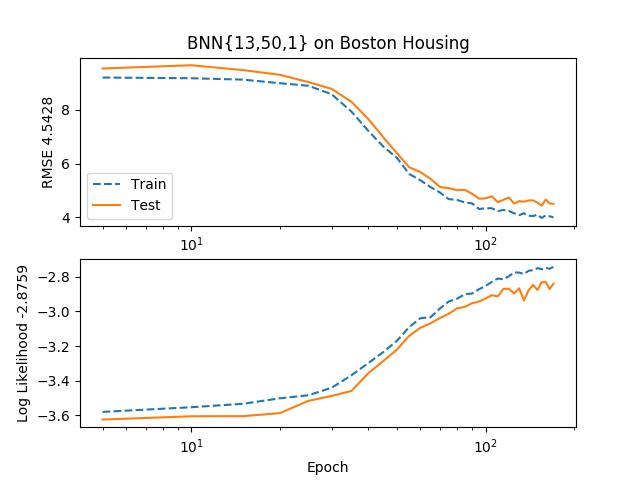
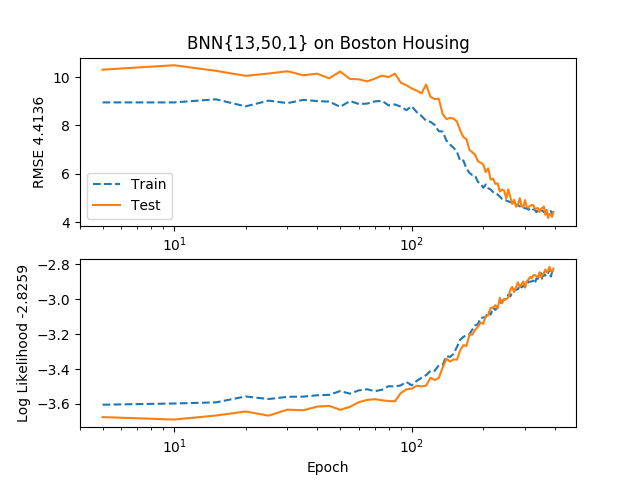
update VAF

diff --git a/models/VAFNN.py b/models/VAFNN.py
@@ -50,19 +50,18 @@ def p_Y_Xw(observed, X, n_basis, net_sizes, n_samples, is_training):
                     initializer=tf.constant_initializer(0.))
                 b = tf.tile(b, [n_samples, tf.shape(X)[0], 1, 1])
                 f = (tf.matmul(f, A)+b)/tf.sqrt(net_sizes[i]*1.)
-                V = tf.get_variable('V'+str(i),
+                V = tf.get_variable('w_logstd_'+str(i),
                     shape=[1, 1, net_sizes[i+1], n_basis],
                     initializer=tf.constant_initializer(0.))
                 V = tf.tile(V, [n_samples, tf.shape(X)[0], 1, 1])
-                expVf2 = tf.exp(-2*np.pi**2*tf.matmul(f**2, V**2))
+                expVf2 = tf.exp(-2*np.pi**2*tf.matmul(f**2, V))
                 w_mu = tf.zeros([1, net_sizes[i+1], n_basis])
                 w = 2*np.pi*zs.Normal('w'+str(i), w_mu, std=1.,
                             n_samples=n_samples, group_ndims=2)
                 w = tf.tile(w, [1, tf.shape(X)[0], 1, 1])
                 f = tf.matmul(f, w)/tf.sqrt(net_sizes[i+1]*1.)
                 f = tf.concat([expVf2*tf.cos(f), expVf2*tf.sin(f)], 3)
-                M, V = tf.reduce_mean(w, 0), tf.reduce_mean(V, 0)
-                KL_V += tf.reduce_mean(V**2-tf.log(V**2+1e-8))
+                KL_V += tf.reduce_mean(w**2+tf.abs(V)-tf.log(tf.abs(V)+1e-8))
                 continue
             w_mu = tf.zeros([1, n_basis*2, net_sizes[i+1]])
             w = zs.Normal('w'+str(i), w_mu, std=1.,

diff --git a/skill_craft/training.py b/skill_craft/training.py
@@ -68,12 +68,12 @@ if __name__ == '__main__':
         'lb_samples': 20,
         'll_samples': 100,
         'n_basis': 30,
-        'n_hiddens': [80, 20],
-        'batch_size': 10,
+        'n_hiddens': [50, 50],
+        'batch_size': 50,
         'learn_rate': 1e-3,
         'max_epochs': 2000,
-        'early_stop': 3,
-        'check_freq': 5,
+        'early_stop': 5,
+        'check_freq': 10,
     }
 
     eval_mses, eval_lls = run_experiment(

diff --git a/boston_housing/training.py b/boston_housing/training.py
@@ -70,11 +70,11 @@ if __name__ == '__main__':
         'll_samples': 100,
         'n_basis': 30,
         'n_hiddens': [50],
-        'batch_size': 10,
+        'batch_size': 50,
         'learn_rate': 1e-3,
         'max_epochs': 2000,
-        'early_stop': 3,
-        'check_freq': 5,
+        'early_stop': 5,
+        'check_freq': 10,
     }
 
     eval_mses, eval_lls = run_experiment(

diff --git a/KEGG/training.py b/KEGG/training.py
@@ -69,10 +69,10 @@ if __name__ == '__main__':
         'll_samples': 100,
         'n_basis': 30,
         'n_hiddens': [200, 80, 20],
-        'batch_size': 10,
+        'batch_size': 100,
         'learn_rate': 1e-3,
         'max_epochs': 2000,
-        'early_stop': 3,
+        'early_stop': 5,
         'check_freq': 5,
     }
 

diff --git a/protein/training.py b/protein/training.py
@@ -69,10 +69,10 @@ if __name__ == '__main__':
         'll_samples': 100,
         'n_basis': 30,
         'n_hiddens': [200, 80, 20],
-        'batch_size': 10,
+        'batch_size': 100,
         'learn_rate': 1e-3,
         'max_epochs': 2000,
-        'early_stop': 3,
+        'early_stop': 5,
         'check_freq': 5,
     }
 

diff --git a/parkinsons/training.py b/parkinsons/training.py
@@ -69,10 +69,10 @@ if __name__ == '__main__':
         'll_samples': 100,
         'n_basis': 30,
         'n_hiddens': [80, 20],
-        'batch_size': 10,
+        'batch_size': 50,
         'learn_rate': 1e-3,
         'max_epochs': 2000,
-        'early_stop': 3,
+        'early_stop': 5,
         'check_freq': 5,
     }
 
